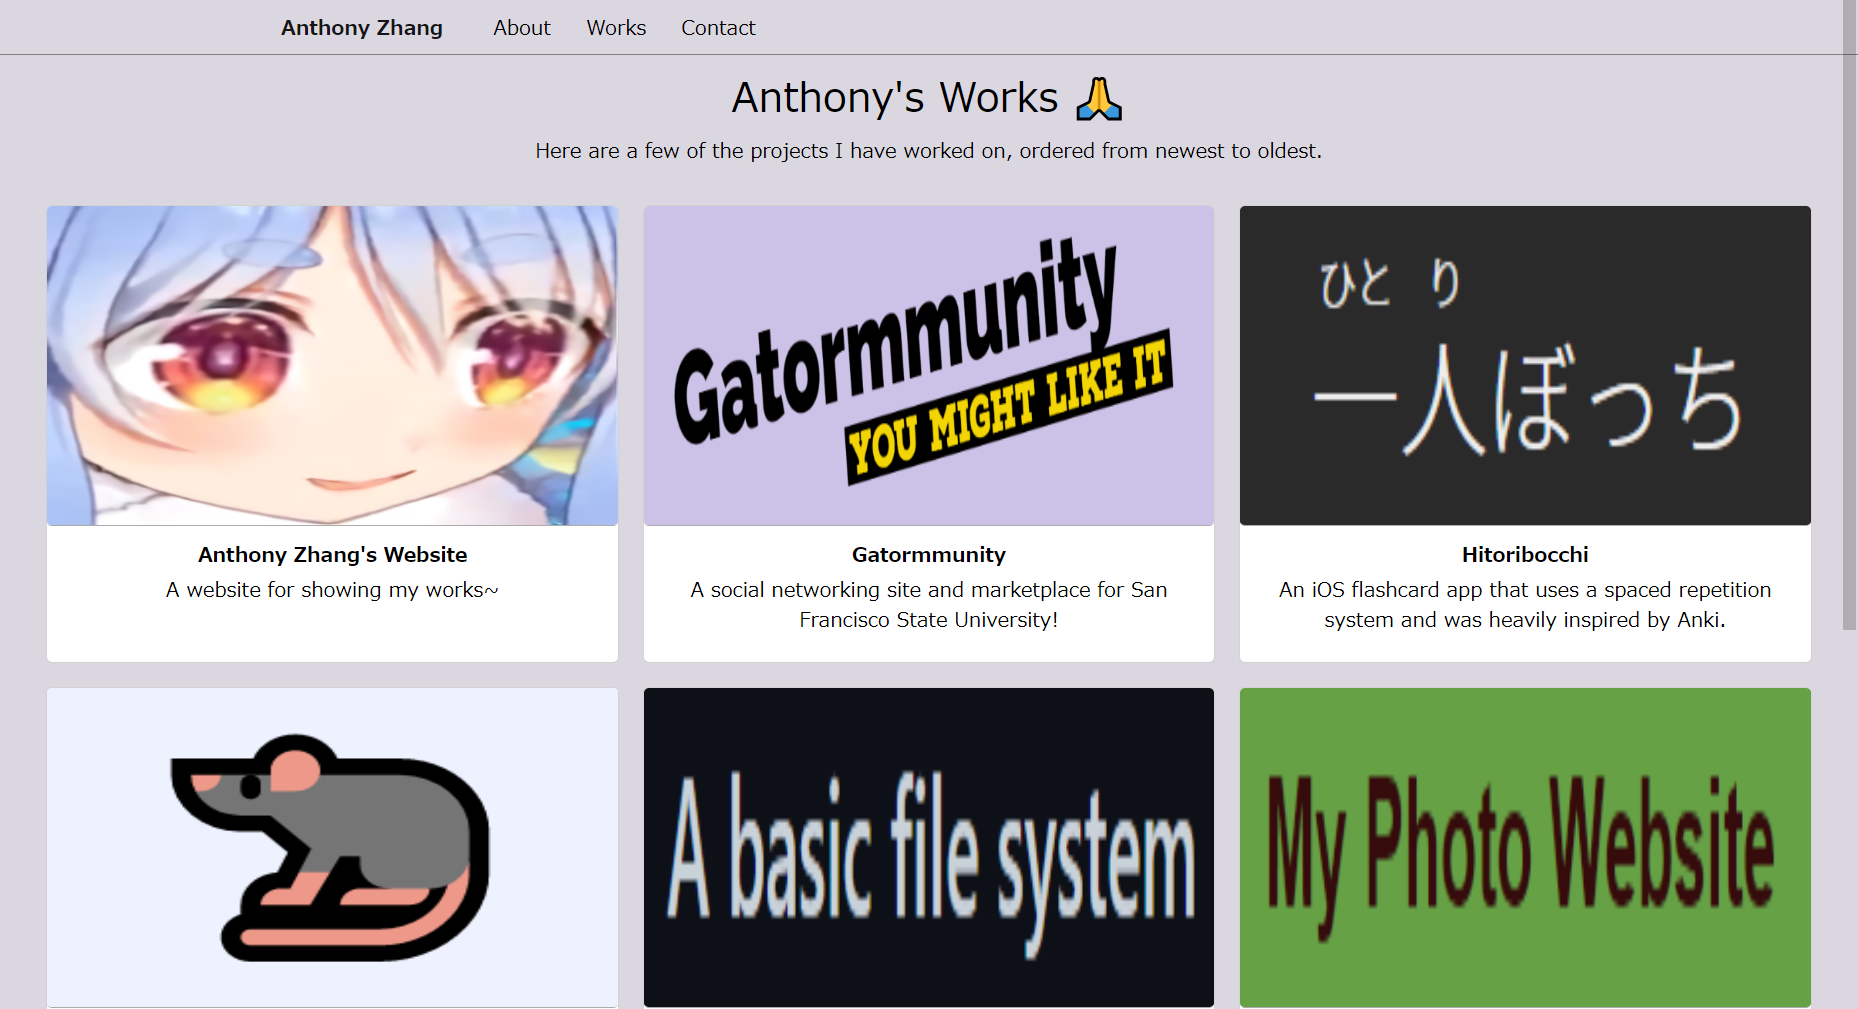
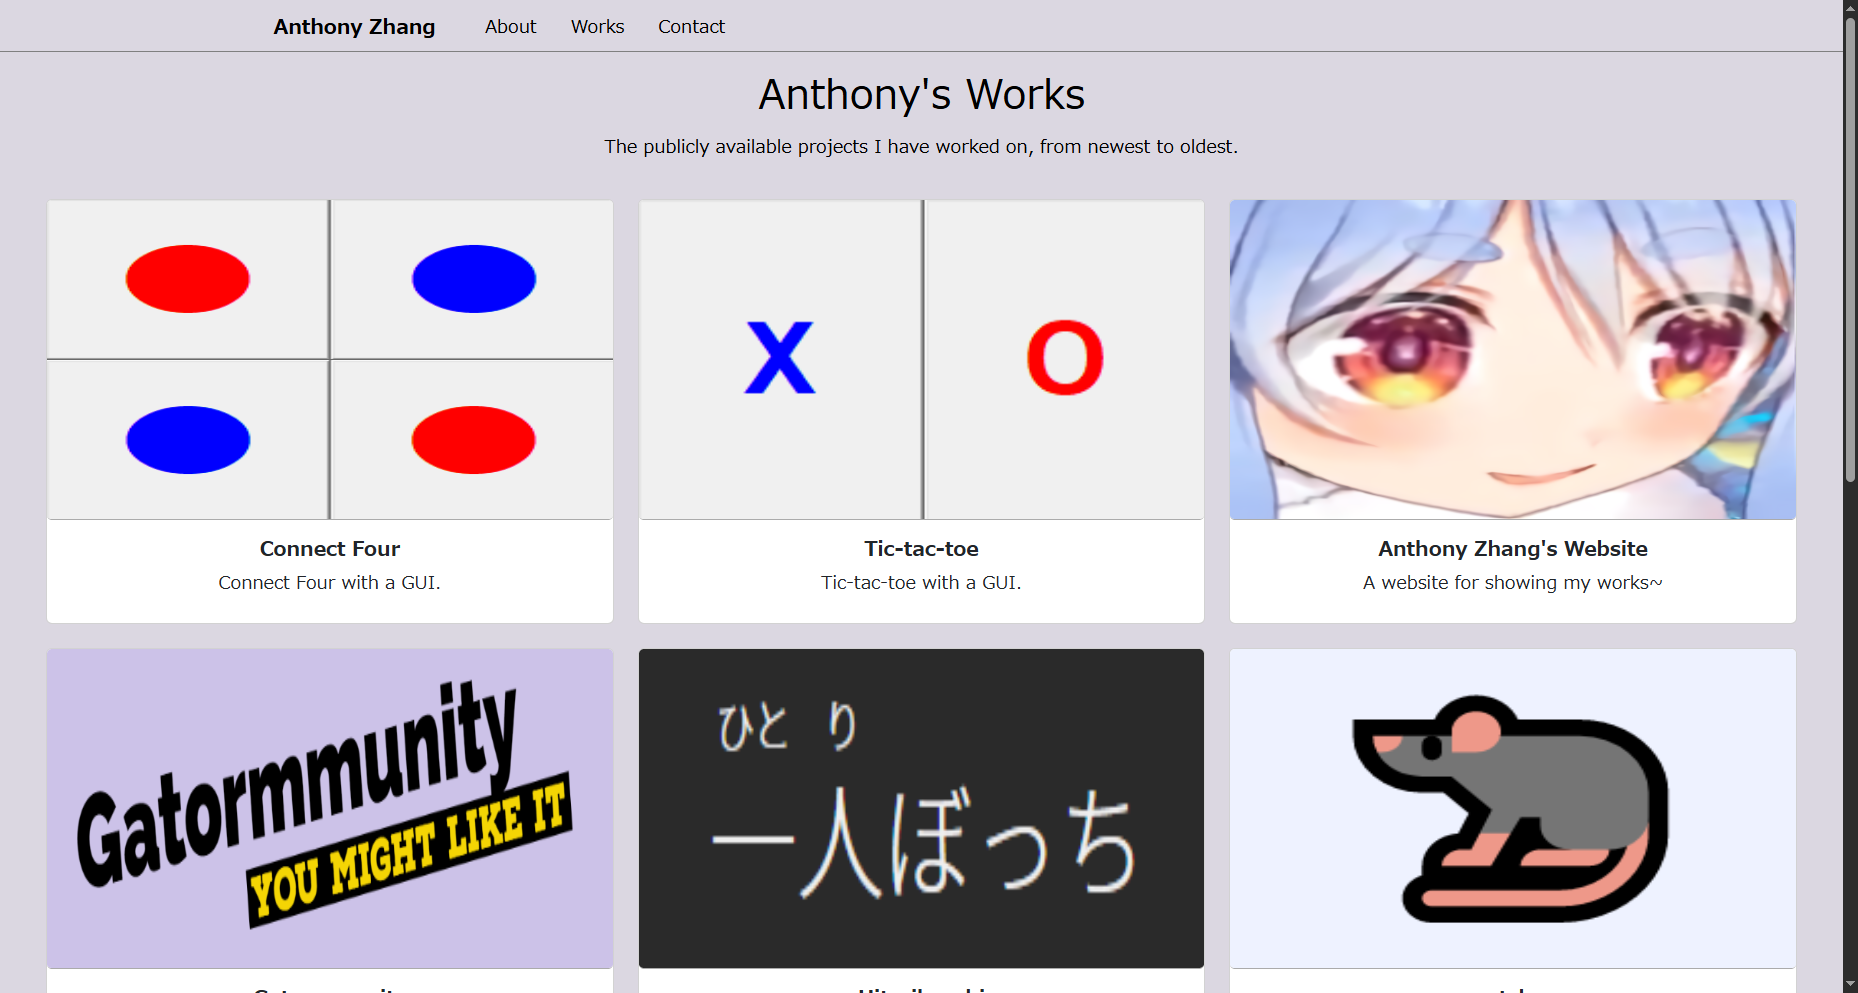
ConnectFour.js: Added synopsis, additional information, and gameplay images. Index.css: Shrunk font size across the entire website.
AnthonyZhangWebsite.js: Updated its images to reflect the site's changes.
Contact.js, Home.js, Works.js: Reworded some text.

diff --git a/src/pages/works/ConnectFour.js b/src/pages/works/ConnectFour.js
@@ -20,22 +20,50 @@ export default function ConnectFour() {
       {/* Synopsis */}
       <h2 className='section-title'>Synopsis</h2>
       <p className='section-body'>
-        {/* TODO: Write synopsis: use GitHub README and release, state game objective, etc. */}
+        Connect Four with a graphical user interface. You can play against yourself or a friend next to you.<br /><br />
+
+        To win, connect 4 tokens of your colour in a row while preventing your opponent from doing the same.<br />
+        You may form rows horizontally, vertically, or diagonally.<br/><br/>
+        
+        Install the game&nbsp;
+        <Link className='undecorated-link' to='https://github.com/anthonyzhang1/Connect-Four/blob/main/README.md#installing-the-game'
+         target="_blank" rel="noopener noreferrer">here</Link> by following the instructions in the "Installing the Game" section.
       </p>
 
       {/* Additional Information */}
       <h2 className='section-title'>Additional Information</h2>
       <p className='section-body'>
-        {/* TODO: Write technical details, start date, motivations, etc.  */}
-        {/* The game is written in Python. tkinter is used for the graphical user interface, and pytest is used for testing.
-            This project was created on 2023-08. */}
+        I started this project to get more familiar with creating GUIs and to build on what I learned from my last project,&nbsp;
+        <Link className='undecorated-link' to='/works/tic-tac-toe' target="_blank" rel="noopener noreferrer">Tic-tac-toe</Link>.<br /><br />
+
+        This project is written in Python and uses tkinter for the graphics, and pytest for testing.<br />
+        Its development started on 2023-08.<br /><br />
       </p>
 
       {/* Images */}
       <h2 className='section-title'>Images</h2>
-      {/* TODO: Add images */}
+      {/* New Game */}
+      <CaptionedImage
+        altText='A new game.'
+        caption='Starting a game.'
+        imagePath='/images/works/connect-four/new-game.png'
+      />
 
-      <p className='page-last-updated'>Page Last Updated: June 06, 2025</p>
+      {/* Won Game */}
+      <CaptionedImage
+        altText='A won game.'
+        caption='Winning a game.'
+        imagePath='/images/works/connect-four/won-game.png'
+      />
+
+      {/* Tied Game */}
+      <CaptionedImage
+        altText='A tied game.'
+        caption='Tying a game.'
+        imagePath='/images/works/connect-four/tied-game.png'
+      />
+
+      <p className='page-last-updated'>Page last updated on 2025-06-06.</p>
     </div>
   );
 }

diff --git a/src/pages/Works.js b/src/pages/Works.js
@@ -60,8 +60,8 @@ export default function Works() {
 
   return (
     <div className='works-p page-content'>
-      <h1 className='page-title'>Anthony's Works 🙏</h1>
-      <p className='description'>Here are a few of the projects I have worked on, ordered from newest to oldest.</p>
+      <h1 className='page-title'>Anthony's Works</h1>
+      <p className='description'>The publicly available projects I have worked on, from newest to oldest.</p>
 
       {/* Each card is mapped onto a grid with 1-3 columns in each row, depending on screen width. */}
       <Row className='g-4' xs={1} sm={2} xl={3}>

diff --git a/src/pages/Home.js b/src/pages/Home.js
@@ -26,8 +26,8 @@ export default function Home() {
     <div className='home-p page-content'>
       <h1 className='page-title'>Anthony Zhang</h1>
       <p>
-        This website contains some of my works. Learn more about me through the links in the navigation bar above! <br />
-        Below are some of the works that I think are the most interesting.
+        This website contains my works. Learn more about me through the links above!<br />
+        Featured below are the works I think are the most interesting.
       </p>
 
       <h2 className='featured-works'>Featured Works</h2>

diff --git a/src/pages/Contact.js b/src/pages/Contact.js
@@ -4,7 +4,7 @@ import { Link } from 'react-router-dom';
 export default function Contact() {
   return (
     <div className='contact-p page-content'>
-      <h1 className='page-title'>Contact Anthony!</h1>
+      <h1 className='page-title'>Contact Anthony 🕊</h1>
 
       {/* My email, which is just plaintext. */}
       <p>

diff --git a/src/pages/works/AnthonyZhangWebsite.js b/src/pages/works/AnthonyZhangWebsite.js
@@ -81,7 +81,7 @@ export default function AnthonyZhangWebsite() {
         imagePath='/images/works/anthony-zhang-website/work.png'
       />
 
-      <p className='page-last-updated'>Page Last Updated: July 22, 2023</p>
+      <p className='page-last-updated'>Page last updated on 2025-06-06.</p>
     </div>
   );
 }

diff --git a/src/css/Index.css b/src/css/Index.css
@@ -18,7 +18,7 @@
 
   text-align: center;
   font-family: 'Meiryo UI', 'Helvetica', sans-serif;
-  font-size: 20px;
+  font-size: 18px;
   color: black; /* text color */
 }
 
